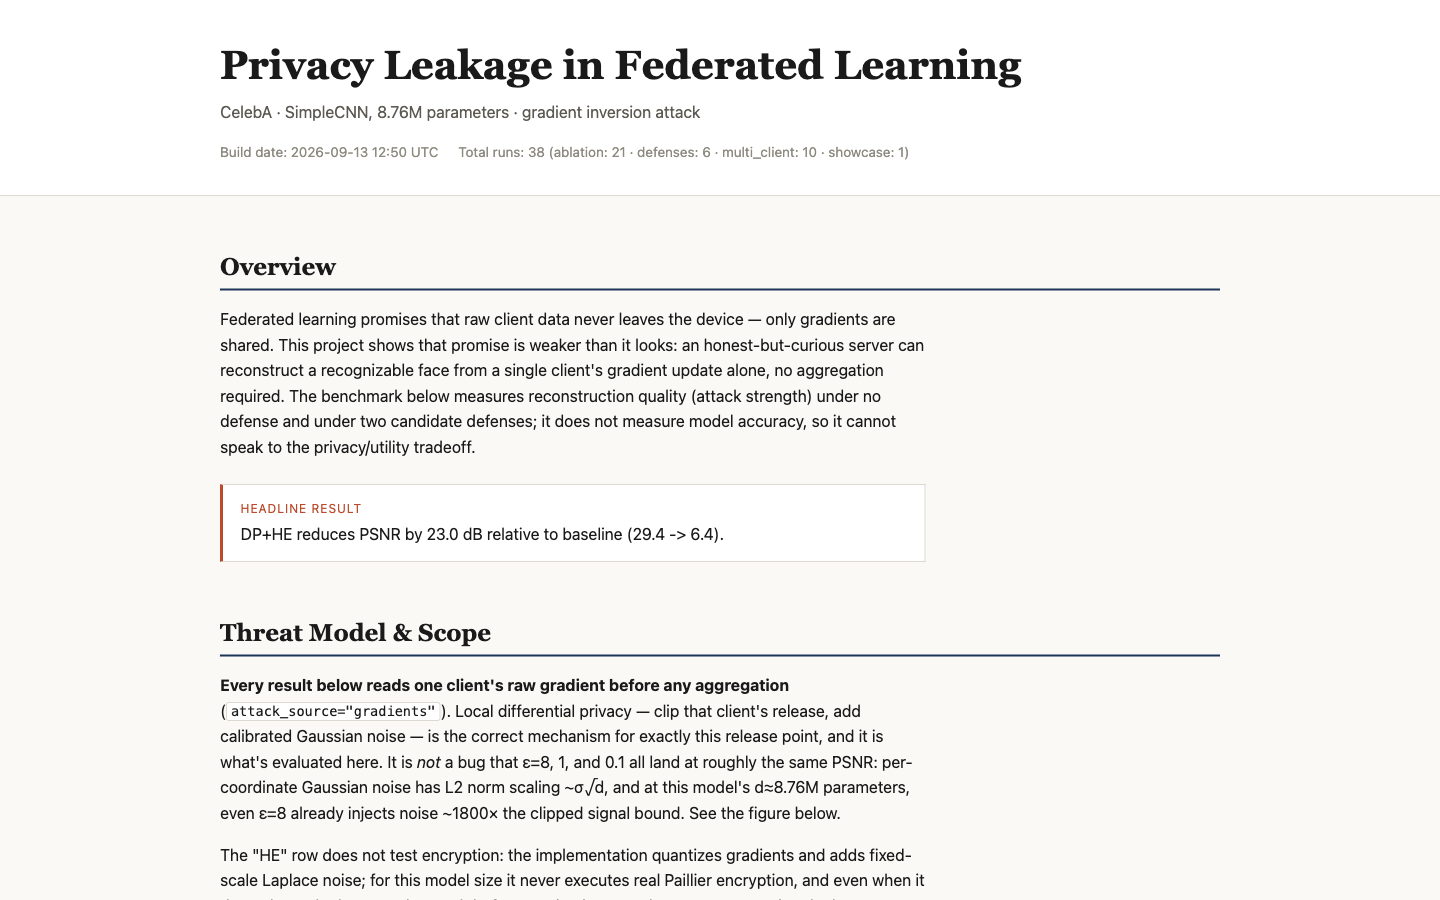
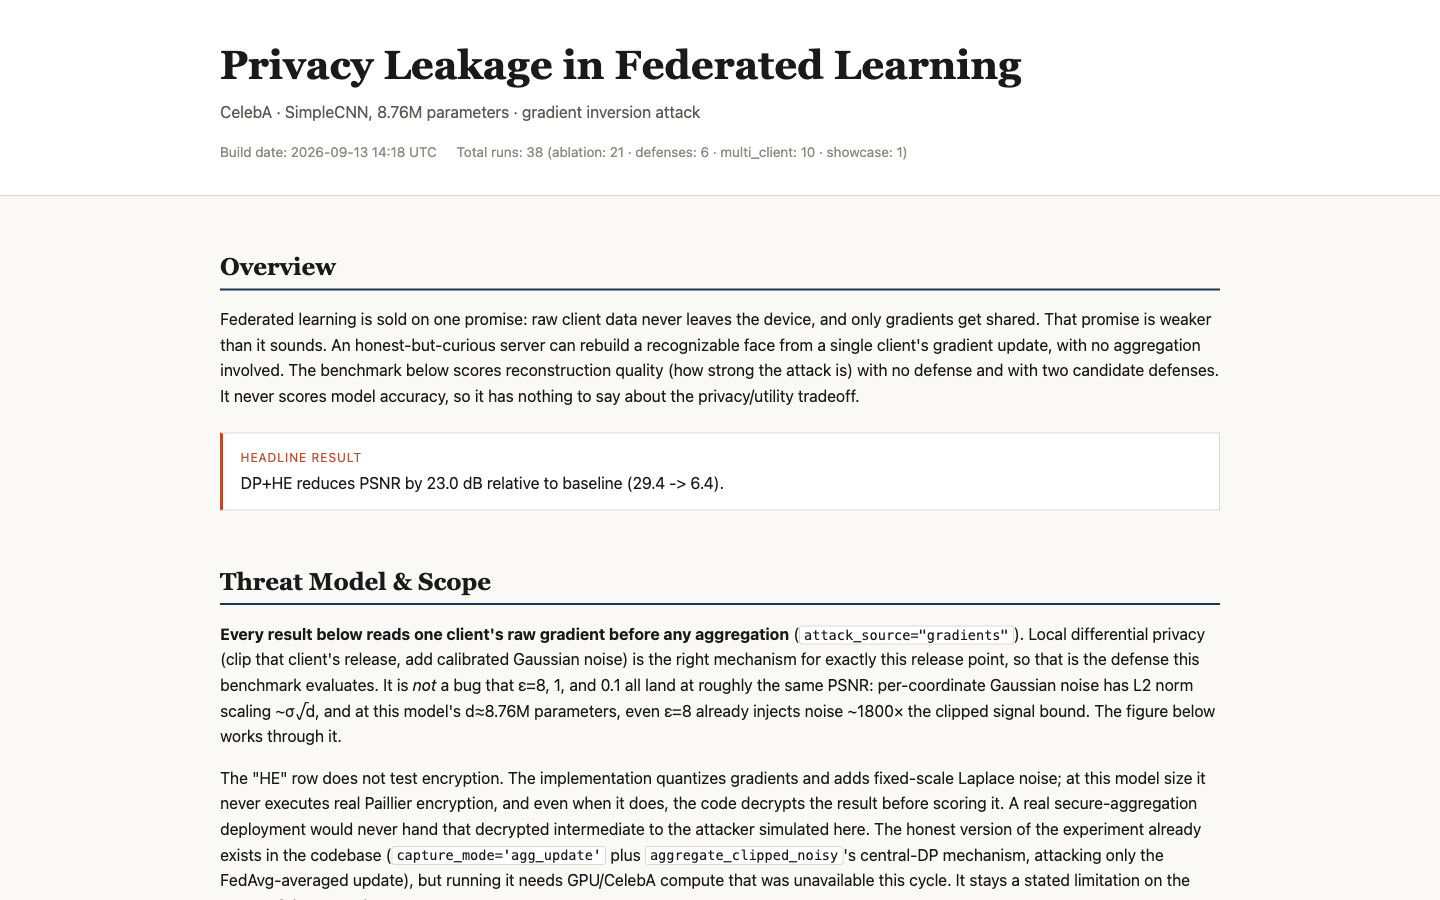
style: shift dashboard and README prose from textbook tone to authored voice
Rewrote the visitor-facing text (dashboard sections, figcaptions,
callouts, README body) so it reads like a project write-up one person
put their name on, not an encyclopedia entry. Ran it through the
humanizer and structural-humanizer passes: flattened heading-then-noun
signposting into committed sentences, cut most of the not-X-but-Y
antithesis pairs (kept two that preempt a real misreading of the
epsilon sweep), and dropped a README Notes bullet that only restated
Key Findings. No metric, claim, or technical detail changed.

Also aligned the README title with the dashboard's ("Privacy Leakage
in Federated Learning") and regenerated the stale hero screenshot,
which still showed the pre-humanizer prose and the old narrow-column
layout from before the width fix.

Changed region(s): [[0.1562, 0.3422, 0.8438, 0.9956], [0.25, 0.1556, 0.625, 0.1867]]

diff --git a/docs/index.html b/docs/index.html
@@ -506,13 +506,13 @@
   <main class="wrap">
     <section id="overview">
       <h2>Overview</h2>
-      <p>Federated learning promises that raw client data never leaves the device; only
-gradients are shared. This project shows that promise is weaker than it looks.
-An honest-but-curious server can reconstruct a recognizable face from a single
-client's gradient update alone, without needing any aggregation. The benchmark
-below measures reconstruction quality (attack strength) under no defense and
-under two candidate defenses. It does not measure model accuracy, so it cannot
-speak to the privacy/utility tradeoff.</p>
+      <p>Federated learning is sold on one promise: raw client data never leaves the
+device, and only gradients get shared. That promise is weaker than it sounds.
+An honest-but-curious server can rebuild a recognizable face from a single
+client's gradient update, with no aggregation involved. The benchmark below
+scores reconstruction quality (how strong the attack is) with no defense and
+with two candidate defenses. It never scores model accuracy, so it has nothing
+to say about the privacy/utility tradeoff.</p>
       <div class="callout">
         <div class="section-label">Headline result</div>
         <div id="keyFinding"></div>
@@ -523,27 +523,29 @@ speak to the privacy/utility tradeoff.</p>
       <h2>Threat Model &amp; Scope</h2>
       <p><strong>Every result below reads one client's raw gradient before any
 aggregation</strong> (<code>attack_source="gradients"</code>). Local differential
-privacy (clip that client's release, add calibrated Gaussian noise) is the correct
-mechanism for exactly this release point, and it is what gets evaluated here. It is
-<em>not</em> a bug that ε=8, 1, and 0.1 all land at roughly the same PSNR: per-coordinate
-Gaussian noise has L2 norm scaling ~σ√d, and at this model's d≈8.76M parameters, even
-ε=8 already injects noise ~1800× the clipped signal bound. See the figure below.</p>
+privacy (clip that client's release, add calibrated Gaussian noise) is the right
+mechanism for exactly this release point, so that is the defense this benchmark
+evaluates. It is <em>not</em> a bug that ε=8, 1, and 0.1 all land at roughly the same
+PSNR: per-coordinate Gaussian noise has L2 norm scaling ~σ√d, and at this model's
+d≈8.76M parameters, even ε=8 already injects noise ~1800× the clipped signal bound.
+The figure below works through it.</p>
       <p>The "HE" row does not test encryption. The implementation quantizes gradients and
-adds fixed-scale Laplace noise; for this model size it never executes real Paillier
-encryption, and even when it does, the code decrypts the result before scoring it, so a
-real secure-aggregation deployment would never expose that decrypted intermediate to
-this attacker. An honest version of this experiment exists in the codebase
-(<code>capture_mode='agg_update'</code> plus <code>aggregate_clipped_noisy</code>'s
-central-DP mechanism, attacking only the FedAvg-averaged update), but no GPU/CelebA
-compute was available to run it this cycle. That is a named limitation, not a
-filled-in result.</p>
+adds fixed-scale Laplace noise; at this model size it never executes real Paillier
+encryption, and even when it does, the code decrypts the result before scoring it. A
+real secure-aggregation deployment would never hand that decrypted intermediate to the
+attacker simulated here. The honest version of the experiment already exists in the
+codebase (<code>capture_mode='agg_update'</code> plus <code>aggregate_clipped_noisy</code>'s
+central-DP mechanism, attacking only the FedAvg-averaged update), but running it needs
+GPU/CelebA compute that was unavailable this cycle. It stays a stated limitation on
+the scope of these numbers.</p>
     </section>
 
     <section id="attack-effectiveness">
       <h2>Results: Attack Effectiveness</h2>
-      <p>Every run in the benchmark, with its reconstruction metrics. Lower LPIPS and
-      higher PSNR/SSIM mean a stronger attack: a worse privacy outcome for the
-      client whose gradient was read. Click any row to load that reconstruction.</p>
+      <p>The table lists every run in the benchmark with its reconstruction metrics.
+      Lower LPIPS and higher PSNR/SSIM mean a stronger attack, which is a worse privacy
+      outcome for the client whose gradient was read. Click any row to load that
+      reconstruction.</p>
 
       <div class="controls">
         <div class="filter-block">
@@ -643,9 +645,9 @@ filled-in result.</p>
       </div>
 
       <h3>Robustness across clients</h3>
-      <p>The attack is not a single lucky reconstruction. Across ten independently
-      sampled clients, reconstruction quality stays in a narrow band. The leak is a
-      property of the gradient release, not of one unusually vulnerable participant.</p>
+      <p>Across ten independently sampled clients, reconstruction quality stays in a
+      narrow band. The leak follows from the gradient release itself, and it shows up
+      on every participant sampled here.</p>
       <div id="distributionCharts">
         <figure class="single-figure single-figure-wide">
           <img id="chartMulticlientBoxplots" alt="Distribution of reconstruction metrics across ten clients" />
@@ -656,14 +658,14 @@ filled-in result.</p>
 
     <section id="defenses">
       <h2>Results: Defenses</h2>
-      <p>Local differential privacy is applied at exactly the release point this attack
-      reads: one client's own gradient, clipped and noised before it leaves the device.
-      The epsilon sweep is the centerpiece result.</p>
+      <p>Local differential privacy acts on exactly the release point this attack reads:
+      one client's own gradient, clipped and noised before it ever leaves the device.
+      The epsilon sweep is the centerpiece here.</p>
       <div class="paired-figures">
         <figure>
           <img id="chartDefensesBars" alt="Reconstruction metrics by defense configuration" />
-          <figcaption>The tested ε range (8, 1, 0.1) produces flat PSNR. That is the
-          finding, not noise in the experiment.</figcaption>
+          <figcaption>The tested ε range (8, 1, 0.1) produces flat PSNR, and that
+          flatness is the finding itself.</figcaption>
         </figure>
         <figure>
           <img id="dpNoiseScalingFig" alt="DP noise L2 norm vs. clipped signal, by model dimensionality" />
@@ -674,28 +676,28 @@ filled-in result.</p>
       </div>
       <div class="callout">
         <div class="section-label">Read the "HE" row with its caveat</div>
-        The "HE" configuration below does not test encryption. The central-DP /
-        secure-aggregation release point is a named scope limit rather than a measured
-        result, so check <a href="#threat-model">Threat Model &amp; Scope</a> before
-        quoting either number.
+        The "HE" configuration below does not test encryption, and the central-DP /
+        secure-aggregation release point went unmeasured. Read
+        <a href="#threat-model">Threat Model &amp; Scope</a> before quoting either
+        number.
       </div>
       <figure class="single-figure single-figure-center">
         <img id="chartDefensesScatter" alt="PSNR versus LPIPS for each defense configuration" />
-        <figcaption>PSNR against LPIPS per defense configuration: the two metrics agree on
-        the ordering, so the flat ε sweep is not an artifact of the metric choice.</figcaption>
+        <figcaption>PSNR against LPIPS per defense configuration. The two metrics agree on
+        the ordering, so the flat ε sweep survives the choice of metric.</figcaption>
       </figure>
     </section>
 
     <section id="ablation">
       <h2>Ablation Study</h2>
-      <p>Which attack hyperparameters actually matter: each chart varies one setting of
-      the inversion optimizer and reports the resulting reconstruction quality.</p>
+      <p>Each chart varies one setting of the inversion optimizer and reports the
+      reconstruction quality that comes out, which shows which hyperparameters actually
+      move the attack.</p>
       <div class="charts-grid" id="ablationCharts"></div>
       <div id="ablationTable"></div>
 
       <h3>Reconstruction montages</h3>
-      <p>Supporting visual evidence: the same runs, side by side, as images rather than
-      numbers.</p>
+      <p>The same runs again, side by side as images instead of numbers.</p>
       <div class="montage-grid" id="montageGrid"></div>
       <div class="empty-state" id="montageEmpty" style="display:none;">
         No montages available. Provide montage PNGs in results/report/montages/.
@@ -704,8 +706,8 @@ filled-in result.</p>
 
     <section id="reproduce">
       <h2>Reproduce It</h2>
-      <p>Everything on this page is generated from <code>results/report/summary.csv</code>
-      by <code>scripts/make_dashboard.py</code>.</p>
+      <p><code>scripts/make_dashboard.py</code> builds everything on this page from
+      <code>results/report/summary.csv</code>.</p>
       <pre class="commands"><code># Install dependencies
 pip install -r requirements.txt
 

diff --git a/scripts/templates/dashboard.html b/scripts/templates/dashboard.html
@@ -506,13 +506,13 @@
   <main class="wrap">
     <section id="overview">
       <h2>Overview</h2>
-      <p>Federated learning promises that raw client data never leaves the device; only
-gradients are shared. This project shows that promise is weaker than it looks.
-An honest-but-curious server can reconstruct a recognizable face from a single
-client's gradient update alone, without needing any aggregation. The benchmark
-below measures reconstruction quality (attack strength) under no defense and
-under two candidate defenses. It does not measure model accuracy, so it cannot
-speak to the privacy/utility tradeoff.</p>
+      <p>Federated learning is sold on one promise: raw client data never leaves the
+device, and only gradients get shared. That promise is weaker than it sounds.
+An honest-but-curious server can rebuild a recognizable face from a single
+client's gradient update, with no aggregation involved. The benchmark below
+scores reconstruction quality (how strong the attack is) with no defense and
+with two candidate defenses. It never scores model accuracy, so it has nothing
+to say about the privacy/utility tradeoff.</p>
       <div class="callout">
         <div class="section-label">Headline result</div>
         <div id="keyFinding"></div>
@@ -523,27 +523,29 @@ speak to the privacy/utility tradeoff.</p>
       <h2>Threat Model &amp; Scope</h2>
       <p><strong>Every result below reads one client's raw gradient before any
 aggregation</strong> (<code>attack_source="gradients"</code>). Local differential
-privacy (clip that client's release, add calibrated Gaussian noise) is the correct
-mechanism for exactly this release point, and it is what gets evaluated here. It is
-<em>not</em> a bug that ε=8, 1, and 0.1 all land at roughly the same PSNR: per-coordinate
-Gaussian noise has L2 norm scaling ~σ√d, and at this model's d≈8.76M parameters, even
-ε=8 already injects noise ~1800× the clipped signal bound. See the figure below.</p>
+privacy (clip that client's release, add calibrated Gaussian noise) is the right
+mechanism for exactly this release point, so that is the defense this benchmark
+evaluates. It is <em>not</em> a bug that ε=8, 1, and 0.1 all land at roughly the same
+PSNR: per-coordinate Gaussian noise has L2 norm scaling ~σ√d, and at this model's
+d≈8.76M parameters, even ε=8 already injects noise ~1800× the clipped signal bound.
+The figure below works through it.</p>
       <p>The "HE" row does not test encryption. The implementation quantizes gradients and
-adds fixed-scale Laplace noise; for this model size it never executes real Paillier
-encryption, and even when it does, the code decrypts the result before scoring it, so a
-real secure-aggregation deployment would never expose that decrypted intermediate to
-this attacker. An honest version of this experiment exists in the codebase
-(<code>capture_mode='agg_update'</code> plus <code>aggregate_clipped_noisy</code>'s
-central-DP mechanism, attacking only the FedAvg-averaged update), but no GPU/CelebA
-compute was available to run it this cycle. That is a named limitation, not a
-filled-in result.</p>
+adds fixed-scale Laplace noise; at this model size it never executes real Paillier
+encryption, and even when it does, the code decrypts the result before scoring it. A
+real secure-aggregation deployment would never hand that decrypted intermediate to the
+attacker simulated here. The honest version of the experiment already exists in the
+codebase (<code>capture_mode='agg_update'</code> plus <code>aggregate_clipped_noisy</code>'s
+central-DP mechanism, attacking only the FedAvg-averaged update), but running it needs
+GPU/CelebA compute that was unavailable this cycle. It stays a stated limitation on
+the scope of these numbers.</p>
     </section>
 
     <section id="attack-effectiveness">
       <h2>Results: Attack Effectiveness</h2>
-      <p>Every run in the benchmark, with its reconstruction metrics. Lower LPIPS and
-      higher PSNR/SSIM mean a stronger attack: a worse privacy outcome for the
-      client whose gradient was read. Click any row to load that reconstruction.</p>
+      <p>The table lists every run in the benchmark with its reconstruction metrics.
+      Lower LPIPS and higher PSNR/SSIM mean a stronger attack, which is a worse privacy
+      outcome for the client whose gradient was read. Click any row to load that
+      reconstruction.</p>
 
       <div class="controls">
         <div class="filter-block">
@@ -643,9 +645,9 @@ filled-in result.</p>
       </div>
 
       <h3>Robustness across clients</h3>
-      <p>The attack is not a single lucky reconstruction. Across ten independently
-      sampled clients, reconstruction quality stays in a narrow band. The leak is a
-      property of the gradient release, not of one unusually vulnerable participant.</p>
+      <p>Across ten independently sampled clients, reconstruction quality stays in a
+      narrow band. The leak follows from the gradient release itself, and it shows up
+      on every participant sampled here.</p>
       <div id="distributionCharts">
         <figure class="single-figure single-figure-wide">
           <img id="chartMulticlientBoxplots" alt="Distribution of reconstruction metrics across ten clients" />
@@ -656,14 +658,14 @@ filled-in result.</p>
 
     <section id="defenses">
       <h2>Results: Defenses</h2>
-      <p>Local differential privacy is applied at exactly the release point this attack
-      reads: one client's own gradient, clipped and noised before it leaves the device.
-      The epsilon sweep is the centerpiece result.</p>
+      <p>Local differential privacy acts on exactly the release point this attack reads:
+      one client's own gradient, clipped and noised before it ever leaves the device.
+      The epsilon sweep is the centerpiece here.</p>
       <div class="paired-figures">
         <figure>
           <img id="chartDefensesBars" alt="Reconstruction metrics by defense configuration" />
-          <figcaption>The tested ε range (8, 1, 0.1) produces flat PSNR. That is the
-          finding, not noise in the experiment.</figcaption>
+          <figcaption>The tested ε range (8, 1, 0.1) produces flat PSNR, and that
+          flatness is the finding itself.</figcaption>
         </figure>
         <figure>
           <img id="dpNoiseScalingFig" alt="DP noise L2 norm vs. clipped signal, by model dimensionality" />
@@ -674,28 +676,28 @@ filled-in result.</p>
       </div>
       <div class="callout">
         <div class="section-label">Read the "HE" row with its caveat</div>
-        The "HE" configuration below does not test encryption. The central-DP /
-        secure-aggregation release point is a named scope limit rather than a measured
-        result, so check <a href="#threat-model">Threat Model &amp; Scope</a> before
-        quoting either number.
+        The "HE" configuration below does not test encryption, and the central-DP /
+        secure-aggregation release point went unmeasured. Read
+        <a href="#threat-model">Threat Model &amp; Scope</a> before quoting either
+        number.
       </div>
       <figure class="single-figure single-figure-center">
         <img id="chartDefensesScatter" alt="PSNR versus LPIPS for each defense configuration" />
-        <figcaption>PSNR against LPIPS per defense configuration: the two metrics agree on
-        the ordering, so the flat ε sweep is not an artifact of the metric choice.</figcaption>
+        <figcaption>PSNR against LPIPS per defense configuration. The two metrics agree on
+        the ordering, so the flat ε sweep survives the choice of metric.</figcaption>
       </figure>
     </section>
 
     <section id="ablation">
       <h2>Ablation Study</h2>
-      <p>Which attack hyperparameters actually matter: each chart varies one setting of
-      the inversion optimizer and reports the resulting reconstruction quality.</p>
+      <p>Each chart varies one setting of the inversion optimizer and reports the
+      reconstruction quality that comes out, which shows which hyperparameters actually
+      move the attack.</p>
       <div class="charts-grid" id="ablationCharts"></div>
       <div id="ablationTable"></div>
 
       <h3>Reconstruction montages</h3>
-      <p>Supporting visual evidence: the same runs, side by side, as images rather than
-      numbers.</p>
+      <p>The same runs again, side by side as images instead of numbers.</p>
       <div class="montage-grid" id="montageGrid"></div>
       <div class="empty-state" id="montageEmpty" style="display:none;">
         No montages available. Provide montage PNGs in results/report/montages/.
@@ -704,8 +706,8 @@ filled-in result.</p>
 
     <section id="reproduce">
       <h2>Reproduce It</h2>
-      <p>Everything on this page is generated from <code>results/report/summary.csv</code>
-      by <code>scripts/make_dashboard.py</code>.</p>
+      <p><code>scripts/make_dashboard.py</code> builds everything on this page from
+      <code>results/report/summary.csv</code>.</p>
       <pre class="commands"><code># Install dependencies
 pip install -r requirements.txt
 

diff --git a/README.md b/README.md
@@ -1,4 +1,4 @@
-# Security in Federated Learning
+# Privacy Leakage in Federated Learning
 
 [![Python 3.8+](https://img.shields.io/badge/Python-3.8+-blue?logo=python&logoColor=white)](https://python.org)
 [![PyTorch](https://img.shields.io/badge/PyTorch-2.0+-EE4C2C?logo=pytorch&logoColor=white)](https://pytorch.org)
@@ -6,13 +6,13 @@
 
 > **[🔗 Live Dashboard](https://imaddde867.github.io/FL-Attack/)**
 
-A research framework for studying **gradient inversion attacks** and **privacy defenses** in federated learning systems.
+A benchmark for gradient inversion attacks in federated learning, and for the defenses that are supposed to stop them.
 
 ![Dashboard preview](results/report/figures/dashboard_hero.png)
 
 ## Key Findings
 
-All numbers below are read directly from `results/report/summary.csv`.
+Every number below comes straight out of `results/report/summary.csv`.
 
 | Configuration | PSNR (dB) | LPIPS ↓ |
 |---|---|---|
@@ -25,7 +25,7 @@ All numbers below are read directly from `results/report/summary.csv`.
 
 - Baseline attacks reconstruct recognizable faces from a single client's
   raw gradient.
-- **The DP mechanism above is correctly implemented local DP.** It clips
+- The DP mechanism above is correctly implemented local DP. It clips
   and noises one client's own gradient before release, which is the right
   mechanism for the threat model tested here (an adversary reading a
   single pre-aggregation update). It is *not* a bug that ε=8/1/0.1 all land
@@ -35,22 +35,22 @@ All numbers below are read directly from `results/report/summary.csv`.
   couldn't have shown graduated protection at this dimensionality; see
   `results/report/figures/dp_noise_scaling.png` and
   `scripts/dp_noise_scaling_proof.py` for the worked-out proof.
-- **The "HE" row does not test encryption.** The implementation quantizes
-  gradients and adds a fixed-scale Laplace noise term; for this model size
+- The "HE" row does not test encryption. The implementation quantizes
+  gradients and adds a fixed-scale Laplace noise term; at this model size
   it never executes real Paillier encryption, and even when it does, the
-  code decrypts the result before scoring it, so a real HE/secure-aggregation
-  deployment would never expose a decrypted intermediate to the attacker
-  this project simulates. The codebase has an implemented-but-unevaluated
-  path for the honest version of this experiment: `fl_system.py`'s
+  code decrypts the result before scoring it. A real HE/secure-aggregation
+  deployment would never hand a decrypted intermediate to the attacker
+  this project simulates. The honest version of that experiment is
+  implemented but unevaluated: `fl_system.py`'s
   `capture_mode='agg_update'`, paired with `differential_privacy.
   aggregate_clipped_noisy`'s central-DP mechanism, attacking only the
   FedAvg-averaged update, which is what a curious aggregator actually sees
-  under real secure aggregation. No GPU/CelebA compute was available to
-  run that experiment this cycle; it's a named limitation, not a filled-in
-  result.
-- This benchmark measures attack quality only. It does not measure model
-  accuracy under each defense, so it cannot speak to the privacy/utility
-  tradeoff.
+  under real secure aggregation. Running it needs GPU/CelebA compute that
+  was unavailable this cycle, so it stays a stated limitation on the scope
+  of these numbers.
+- This benchmark measures attack quality only. It leaves model accuracy
+  under each defense unmeasured, so it says nothing about the
+  privacy/utility tradeoff.
 
 ## Quick Start
 
@@ -116,10 +116,8 @@ See `python run_experiment.py --help` for all options.
 
 ## Notes
 
-- Results are specific to this experimental setup (single-client gradient
+- Results hold for this experimental setup only (single-client gradient
   leak, 8.76M-parameter model, CelebA 64×64).
-- DP/HE implementations are research-grade, not production-ready.
-- The DP and "HE" findings above share one root cause: neither evaluates
-  the secure-aggregation / central-DP release point. The mechanisms for it
-  exist in the code but were never run; see Key Findings.
-- See the interactive dashboard for detailed visualizations.
+- The DP/HE implementations here are research-grade and should stay well
+  away from production.
+- The dashboard carries the detailed visualizations.
